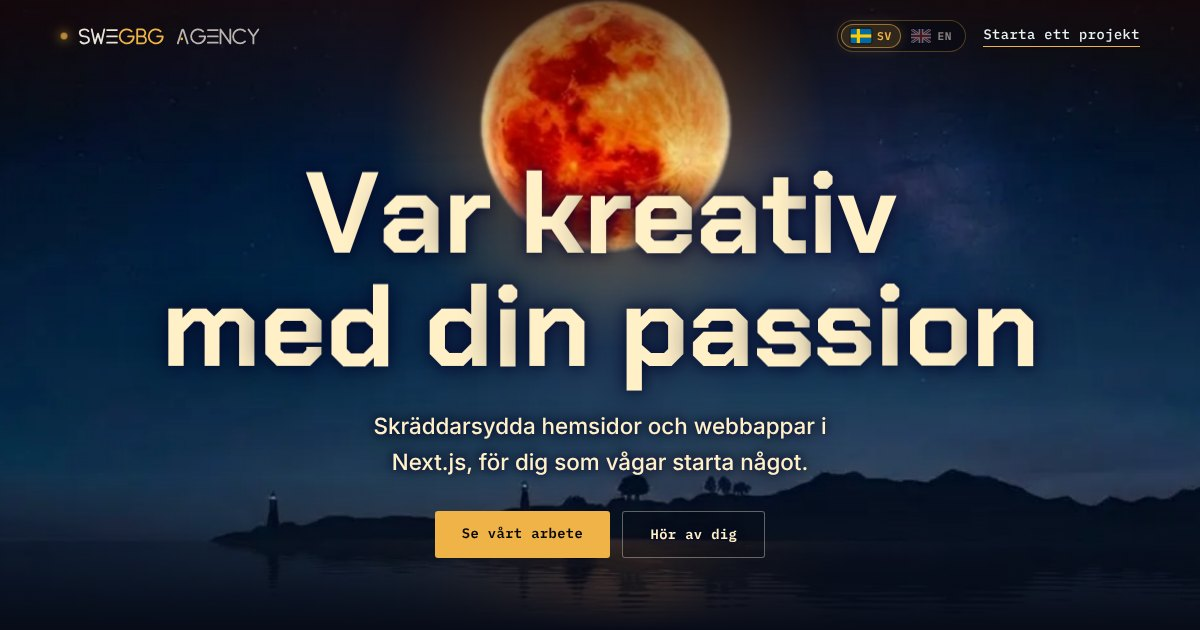
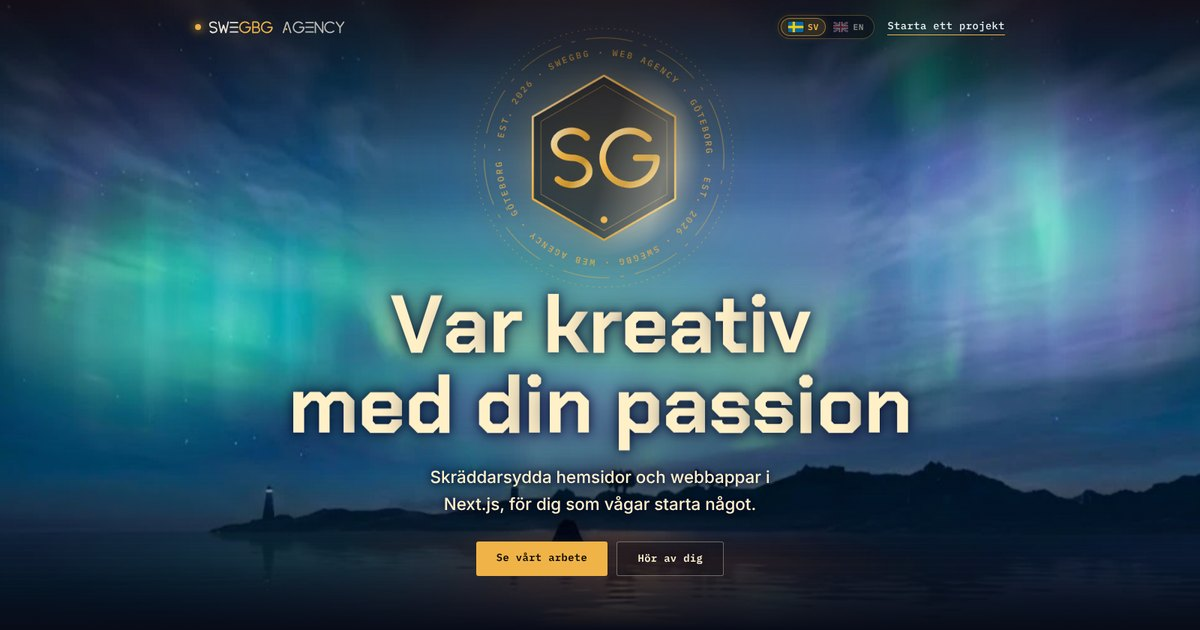
Update

diff --git a/src/styles/hero.css b/src/styles/hero.css
@@ -65,7 +65,7 @@
 /* Text */
 .hero-body { position: relative; z-index: 3; margin-block: auto 0; padding: 3rem 0 4.5rem; text-align: center; will-change: transform;
   --ink: #fff0c8; --ink2: #2a0b00; --shd: rgba(6, 10, 44, .9); }
-h1 { font: 700 clamp(2.9rem, 9.6vw, 7.6rem) / .98 var(--display); letter-spacing: -.01em; margin: 0 0 1.5rem; color: var(--ink);
+h1 { font: 700 clamp(2.9rem, min(9.6vw, 13svh), 7.6rem) / .98 var(--display); letter-spacing: -.01em; margin: 0 0 1.5rem; color: var(--ink);
   text-shadow: 0 0 36px var(--shd), 0 0 14px var(--shd); }
 .h1line { display: block; }
 h1 .w { display: inline-block; white-space: nowrap; }
@@ -150,29 +150,55 @@ h1 .gl:hover::after { opacity: .7; animation: glitch2 .3s steps(2) infinite; }
   animation: aurays 26s linear infinite, aubreathe 6s ease-in-out infinite; }
 @keyframes aurays { to { background-position: -100% 0; } }
 
-/* Full moon, cut out of the photo and shown smaller (sharper): position/size set by --sx, --sy, --sd */
-.aurora { --sx: 50.3%; --sy: 27%; --sd: 17%; }
-@media (max-aspect-ratio: 3/4) { .aurora { --sd: 11%; --sy: 24%; } }
-.au-sun { position: absolute; left: var(--sx); top: var(--sy); width: var(--sd); translate: -50% -50%; pointer-events: none; filter: saturate(1.08) brightness(1.06); }
-.au-moon, .au-disc, .au-corona { position: absolute; left: var(--sx); top: var(--sy); aspect-ratio: 1; translate: -50% -50%; border-radius: 50%; pointer-events: none; mix-blend-mode: screen; }
-/* wide warm halo that breathes */
-.au-moon { width: calc(var(--sd) * 2.5); background: radial-gradient(circle, rgba(255, 170, 80, .42) 20%, rgba(255, 130, 50, .2) 32%, rgba(255, 100, 40, .08) 46%, transparent 64%); animation: aumoon 5s ease-in-out infinite; }
-@keyframes aumoon { 0%, 100% { opacity: .7; scale: .97; } 50% { opacity: 1; scale: 1.05; } }
-/* light on the disc itself: a hot core that shifts and flickers softly, plus a bright rim */
-.au-disc { width: calc(var(--sd) * .97);
-  background: radial-gradient(circle at var(--hx, 44%) var(--hy, 40%), rgba(255, 240, 200, .38), rgba(255, 190, 110, .2) 40%, rgba(255, 140, 60, .1) 62%, transparent 71%);
-  box-shadow: 0 0 2.4vw .5vw rgba(255, 160, 70, .5), inset 0 0 1.4vw rgba(255, 220, 160, .3);
-  animation: audisc 9s ease-in-out infinite, auflick 3.2s ease-in-out infinite; }
-@property --hx { syntax: "<percentage>"; inherits: false; initial-value: 44%; }
-@property --hy { syntax: "<percentage>"; inherits: false; initial-value: 40%; }
-@keyframes audisc { 0%, 100% { --hx: 42%; --hy: 38%; } 33% { --hx: 56%; --hy: 44%; } 66% { --hx: 46%; --hy: 56%; } }
-@keyframes auflick { 0%, 100% { opacity: .85; } 40% { opacity: 1; } 55% { opacity: .9; } 70% { opacity: 1; } }
-/* faint corona rays turning slowly around the disc */
-.au-corona { width: calc(var(--sd) * 1.7); opacity: .32;
-  background: repeating-conic-gradient(from 0deg, rgba(255, 170, 90, .5) 0 2deg, transparent 2deg 9deg, rgba(255, 130, 60, .35) 9deg 10deg, transparent 10deg 17deg);
-  -webkit-mask: radial-gradient(circle, transparent 28%, #000 31%, transparent 68%); mask: radial-gradient(circle, transparent 28%, #000 31%, transparent 68%);
-  animation: aucorona 60s linear infinite, aumoon 5s ease-in-out infinite; }
-@keyframes aucorona { to { rotate: 360deg; } }
+/* ---------- SweGBG emblem (materializes like Proviant): position/size via --sx, --sy, --sd ---------- */
+.aurora { --sx: 50.3%; --sy: 27%; --sd: 24%; }
+@media (max-aspect-ratio: 3/4) { .aurora { --sd: 16%; --sy: 25%; } }
+/* short screens (small laptops): smaller emblem, a bit higher, so it never touches the headline */
+@media (max-height: 780px) and (min-aspect-ratio: 3/4) { .aurora { --sy: 23%; } .hx { width: min(var(--sd), 26svh); } .hero-body { padding-bottom: 3rem; } }
+.hx { position: absolute; left: var(--sx); top: var(--sy); width: min(var(--sd), 40svh); aspect-ratio: 1; translate: -50% -50%; pointer-events: none; }
+.hx-halo { position: absolute; inset: -40%; border-radius: 50%; background: radial-gradient(circle, rgba(240, 179, 71, .3) 0, rgba(240, 179, 71, .12) 30%, rgba(79, 195, 247, .06) 48%, transparent 66%);
+  animation: hxhalo 6s ease-in-out infinite, fadeIn 2.4s .6s both; }
+@keyframes hxhalo { 0%, 100% { opacity: .7; scale: .96; } 50% { opacity: 1; scale: 1.05; } }
+@keyframes fadeIn { from { opacity: 0; } }
+
+/* the emblem itself: blurred, overexposed and colourless -> sharp and gilded */
+.hx-svg { position: absolute; inset: 0; width: 100%; height: 100%; overflow: visible; animation: hxmat 2.4s .5s cubic-bezier(.22, 1, .36, 1) both; filter: drop-shadow(0 0 18px rgba(240, 179, 71, .35)); }
+@keyframes hxmat {
+  0% { opacity: 0; filter: blur(22px) brightness(2.4) saturate(0); transform: scale(1.12); clip-path: circle(6% at 50% 50%); }
+  45% { opacity: 1; filter: blur(7px) brightness(1.6) saturate(.4); clip-path: circle(55% at 50% 50%); }
+  100% { opacity: 1; filter: drop-shadow(0 0 18px rgba(240, 179, 71, .35)); transform: none; clip-path: circle(75% at 50% 50%); }
+}
+.hx-ring { stroke: #f0b347; transform-origin: 200px 200px; }
+.hx-ring.r1 { stroke-width: 1; stroke-dasharray: 2 7; opacity: .7; animation: hxspin 90s linear infinite; }
+.hx-ring.r2 { stroke-width: 1.4; stroke-dasharray: 70 16 6 16; opacity: .45; animation: hxspin 130s linear infinite reverse; }
+@keyframes hxspin { to { transform: rotate(360deg); } }
+.hx-text { transform-origin: 200px 200px; animation: hxspin 70s linear infinite reverse; }
+.hx-text text { font: 500 13px var(--mono); letter-spacing: 3px; fill: rgba(240, 179, 71, .8); }
+.hx-hex { stroke-linejoin: round; }
+.hx-hex.outer { stroke: url(#hxGold); stroke-width: 3; fill: rgba(8, 12, 24, .55); }
+.hx-hex.inner { stroke: rgba(240, 179, 71, .4); stroke-width: 1.2; }
+.hx-mono path { stroke: url(#hxGold); stroke-width: 2.4; stroke-linecap: round; stroke-linejoin: round; stroke-dasharray: 1; stroke-dashoffset: 1; animation: hxdraw 1.4s 1.9s cubic-bezier(.65, 0, .35, 1) forwards; }
+.hx-mono path + path { animation-delay: 2.25s; }
+@keyframes hxdraw { to { stroke-dashoffset: 0; } }
+.hx-dot { fill: #f0b347; animation: fadeIn .6s 3.2s both, hxdot 2.4s 3.8s ease-in-out infinite; transform-origin: 200px 292px; }
+@keyframes hxdot { 50% { transform: scale(1.5); opacity: .6; } }
+
+/* gold dust gathering into the emblem */
+.hx-dust { position: absolute; inset: 0; }
+.hx-dust i { position: absolute; left: 50%; top: 50%; width: var(--s); height: var(--s); border-radius: 50%; background: #ffe2a3; box-shadow: 0 0 8px 2px rgba(240, 179, 71, .75); opacity: 0;
+  animation: hxgather 1.9s var(--dl) cubic-bezier(.6, 0, .3, 1) both; }
+@keyframes hxgather { 0% { opacity: 0; transform: translate(var(--x), var(--y)) scale(1.6); } 20% { opacity: 1; } 85% { opacity: .9; } 100% { opacity: 0; transform: translate(0, 0) scale(.2); } }
+/* a sheen that crosses the emblem now and then */
+.hx-gloss { position: absolute; inset: 14%; border-radius: 50%; mix-blend-mode: screen;
+  background: linear-gradient(105deg, transparent 38%, rgba(255, 244, 214, .35) 48%, transparent 58%) 0 0 / 300% 100%;
+  -webkit-mask: radial-gradient(circle, #000 55%, transparent 72%); mask: radial-gradient(circle, #000 55%, transparent 72%); animation: hxgloss 7s 3s ease-in-out infinite; }
+@keyframes hxgloss { 0% { background-position: 120% 0; } 30%, 100% { background-position: -120% 0; } }
+/* lasting sparkles */
+.hx-sparks { position: absolute; inset: -10%; }
+.hx-sparks i { position: absolute; width: 10px; height: 10px; opacity: 0; animation: hxtwinkle var(--t) calc(3s + var(--d)) ease-in-out infinite; }
+.hx-sparks i::before, .hx-sparks i::after { content: ""; position: absolute; left: 50%; top: 50%; translate: -50% -50%; background: #ffe2a3; border-radius: 2px; box-shadow: 0 0 6px rgba(240, 179, 71, .9); }
+.hx-sparks i::before { width: 1.5px; height: 100%; } .hx-sparks i::after { width: 100%; height: 1.5px; }
+@keyframes hxtwinkle { 0%, 70%, 100% { opacity: 0; transform: scale(.3) rotate(0); } 80% { opacity: 1; transform: scale(1) rotate(45deg); } }
 
 /* Water below the horizon (~77%), with the moon's reflection in the middle: a moving shimmer of the aurora and moon colours */
 .au-water { position: absolute; left: 0; right: 0; top: 77%; bottom: 0; mix-blend-mode: screen; pointer-events: none; opacity: .55;
@@ -197,14 +223,14 @@ h1 .gl:hover::after { opacity: .7; animation: glitch2 .3s steps(2) infinite; }
   .lang { background: rgba(6, 9, 17, .7); }
   .btn.ghost { background: rgba(6, 9, 17, .55); }
   /* fewer, cheaper aurora layers: no blend modes, no rays/corona/water shimmer */
-  .au-rays, .au-corona, .au-water { display: none; }
+  .au-rays, .au-water, .hx-gloss { display: none; }
   .au-band { mix-blend-mode: normal; opacity: .55; animation-name: aud1, none; will-change: auto; }
   .au-band.b2 { animation-name: aud2, none; }
   .au-band.b3 { display: none; }
-  .au-moon, .au-disc { mix-blend-mode: normal; }
-  .au-disc { box-shadow: 0 0 22px 4px rgba(255, 160, 70, .45); animation: none; }
+  .hx-svg { filter: none; }
   .aurora { filter: none; }
   /* letters rise without a per-letter blur */
   h1 .l { animation-name: rise-m; }
   @keyframes rise-m { from { opacity: 0; transform: translateY(.45em); } to { opacity: 1; transform: none; } }
 }
+@media (prefers-reduced-motion: reduce) { .hx-mono path { stroke-dashoffset: 0; } }

diff --git a/src/components/HeroEmblem.tsx b/src/components/HeroEmblem.tsx
@@ -1,0 +1,73 @@
+/*
+  SweGBG emblem for the hero (replaces the sun): a gilded hexagon with an "SG" monogram in the
+  same thin stroke style as the wordmark, wrapped in rotating rings and a ring of text.
+  It materializes out of gold dust (Proviant effect): blurred and overexposed -> sharp,
+  then the monogram draws itself, a gloss sweeps across and sparks twinkle around it.
+*/
+function rng(seed: number) {
+  return () => ((seed = (seed * 1664525 + 1013904223) % 4294967296) / 4294967296);
+}
+const r = rng(2026);
+const DUST = Array.from({ length: 30 }, () => {
+  const a = r() * Math.PI * 2;
+  const d = 120 + r() * 160; // % of the emblem size, where each grain starts
+  return { x: `${(Math.cos(a) * d).toFixed(0)}%`, y: `${(Math.sin(a) * d).toFixed(0)}%`, dl: `${(0.1 + r() * 1.3).toFixed(2)}s`, s: `${(2 + r() * 2.5).toFixed(1)}px` };
+});
+const SPARKS = Array.from({ length: 10 }, () => ({
+  left: `${(6 + r() * 88).toFixed(0)}%`, top: `${(6 + r() * 88).toFixed(0)}%`,
+  d: `${(r() * 4).toFixed(1)}s`, t: `${(3 + r() * 4).toFixed(1)}s`,
+}));
+// pointy-top hexagon around (200,200)
+const hex = (R: number) =>
+  Array.from({ length: 6 }, (_, k) => {
+    const a = (Math.PI / 180) * (-90 + 60 * k);
+    return `${(200 + R * Math.cos(a)).toFixed(1)},${(200 + R * Math.sin(a)).toFixed(1)}`;
+  }).join(" ");
+const RING_TEXT = "SWEGBG · WEB AGENCY · GÖTEBORG · EST. 2026 · ";
+
+export default function HeroEmblem() {
+  return (
+    <div className="hx" aria-hidden="true">
+      <span className="hx-halo" />
+      <div className="hx-dust">
+        {DUST.map((g, i) => (
+          <i key={i} style={{ ["--x" as string]: g.x, ["--y" as string]: g.y, ["--dl" as string]: g.dl, ["--s" as string]: g.s }} />
+        ))}
+      </div>
+      <svg className="hx-svg" viewBox="0 0 400 400" fill="none">
+        <defs>
+          <linearGradient id="hxGold" x1="0" y1="0" x2="1" y2="1">
+            <stop offset="0" stopColor="#fff1c9" />
+            <stop offset=".35" stopColor="#f0b347" />
+            <stop offset=".7" stopColor="#c9922a" />
+            <stop offset="1" stopColor="#f6d58a" />
+          </linearGradient>
+          <path id="hxTextPath" d="M200,48 a152,152 0 1,1 -.01,0" />
+        </defs>
+        {/* rings */}
+        <circle className="hx-ring r1" cx="200" cy="200" r="192" />
+        <circle className="hx-ring r2" cx="200" cy="200" r="178" />
+        <g className="hx-text">
+          <text>
+            <textPath href="#hxTextPath" textLength="945" lengthAdjust="spacing">{RING_TEXT + RING_TEXT}</textPath>
+          </text>
+        </g>
+        {/* hexagons */}
+        <polygon className="hx-hex outer" points={hex(122)} />
+        <polygon className="hx-hex inner" points={hex(108)} />
+        {/* SG monogram, same strokes as the wordmark */}
+        <g className="hx-mono" transform="translate(200 200) scale(4) translate(-19.5 -12)">
+          <path pathLength={1} d="M13.1 4.5 A6.5 5 0 1 0 7.5 12 A6.5 5 0 1 1 1.9 19.5" />
+          <path pathLength={1} d="M36.07 4.93 A10 10 0 1 0 39 12 H31" />
+        </g>
+        <circle className="hx-dot" cx="200" cy="292" r="5" />
+      </svg>
+      <span className="hx-gloss" />
+      <div className="hx-sparks">
+        {SPARKS.map((s, i) => (
+          <i key={i} style={{ left: s.left, top: s.top, ["--d" as string]: s.d, ["--t" as string]: s.t }} />
+        ))}
+      </div>
+    </div>
+  );
+}

diff --git a/src/components/Hero.tsx b/src/components/Hero.tsx
@@ -3,6 +3,7 @@
 import { Fragment, useEffect, useRef, useState } from "react";
 import { site } from "@/lib/site";
 import WorkDialog from "./WorkDialog";
+import HeroEmblem from "./HeroEmblem";
 import LangSwitch from "./LangSwitch";
 import AgencyMark, { SwegbgMark } from "./AgencyMark";
 import { useLang } from "@/lib/LangContext";
@@ -182,7 +183,7 @@ export default function Hero() {
     <header className="hero" ref={root}>
       <div className="hero-bg">
         {site.heroScene === "aurora" ? (
-          /* Blood moon over the archipelago; the northern lights, moon glow and water are animated in CSS */
+          /* Northern lights over the archipelago with the SweGBG emblem; lights, water and emblem are animated in CSS */
           <div className="aurora">
             {/* eslint-disable-next-line @next/next/no-img-element */}
             <img className="au-img" alt="" src="/img/aurora-sky.webp" />
@@ -190,12 +191,8 @@ export default function Hero() {
             <div className="au-band b2" />
             <div className="au-band b3" />
             <div className="au-rays" />
-            <div className="au-moon" />
-            <div className="au-corona" />
-            {/* eslint-disable-next-line @next/next/no-img-element */}
-            <img className="au-sun" alt="" src="/img/aurora-moon.webp" />
-            <div className="au-disc" />
             <div className="au-water" />
+            <HeroEmblem />
           </div>
         ) : (
           <>
